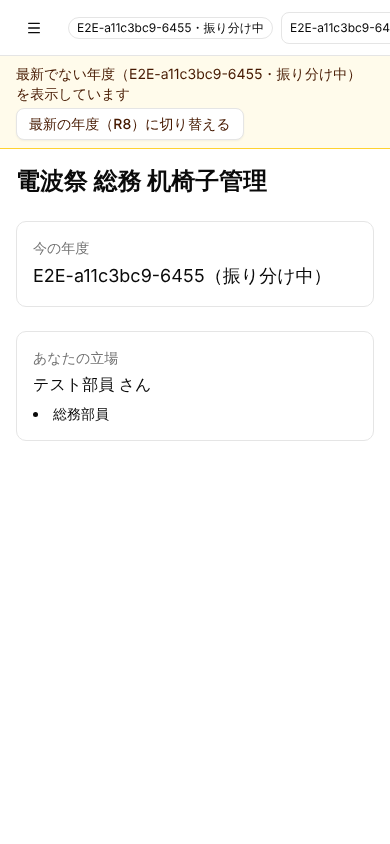
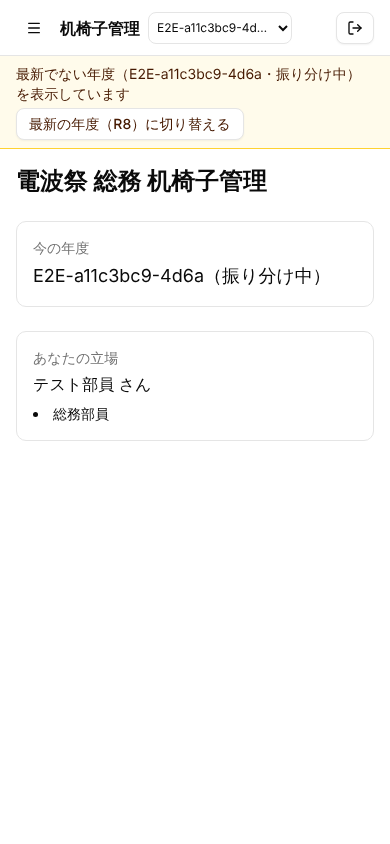
fix(T09a): keep the mobile header within 390px when there are two or more years
Hide the current-year chip below md when the year select is shown, let the
chip and the select shrink, and keep only the sign-out button from shrinking.
Add an E2E test that measures scrollWidth and the sign-out button at 390px,
check scrollWidth in the year-switched-mobile shot, and retake the shots.

Claude-Session: https://claude.ai/code/session_01WNbyY2riVdfm15kp8tp6es

diff --git a/apps/web/components/layout/app-shell.tsx b/apps/web/components/layout/app-shell.tsx
@@ -18,6 +18,7 @@ import {
 } from '@/lib/auth/membership';
 import { navItemsFor } from '@/lib/navigation';
 import { useGuardedRouter } from '@/lib/navigation/guarded-router';
+import { cn } from '@/lib/utils';
 import { AppNav } from './app-nav';
 import { NotInvited } from './not-invited';
 
@@ -83,12 +84,12 @@ function YearSelect({ membership }: { membership: Membership }) {
   const setYear = useGuardedSetYear();
   if (membership.years.length < 2 || !membership.year) return null;
   return (
-    <label className="flex items-center gap-1 text-xs">
+    <label className="flex min-w-0 items-center gap-1 text-xs">
       <span className="sr-only">年度を切り替える</span>
       <select
         data-testid="year-select"
         aria-label="年度を切り替える"
-        className="h-8 max-w-36 rounded-md border bg-background px-1 text-xs"
+        className="h-8 min-w-0 max-w-36 truncate rounded-md border bg-background px-1 text-xs"
         // 確かめてやめたときは今の年度のまま（制御された select なので元に戻る）
         value={membership.year.id}
         onChange={(e) => void setYear(e.target.value)}
@@ -109,6 +110,8 @@ function Frame({ membership, onSignOut, children }: { membership: Membership; on
   const year = membership.year;
   const items = navItemsFor(audiencesOf(membership), year?.status);
   const roles = roleSummary(membership);
+  // スマホ（md 未満）では年度の選択があれば印を隠す（選択に今の年度が出る。幅 390px でヘッダーがはみ出さないように）
+  const hasYearSelect = membership.years.length >= 2 && !!year;
 
   return (
     <div className="flex min-h-dvh flex-col">
@@ -128,7 +131,10 @@ function Frame({ membership, onSignOut, children }: { membership: Membership; on
           <span className="hidden sm:inline">電波祭 総務 </span>机椅子管理
         </span>
         {year ? (
-          <span className="shrink-0 rounded-full border px-2 py-0.5 text-xs" data-testid="current-year">
+          <span
+            className={cn('min-w-0 truncate rounded-full border px-2 py-0.5 text-xs', hasYearSelect && 'max-md:sr-only')}
+            data-testid="current-year"
+          >
             {year.label}・{YEAR_STATUS_LABELS[year.status]}
           </span>
         ) : null}
@@ -136,12 +142,12 @@ function Frame({ membership, onSignOut, children }: { membership: Membership; on
         {isRefreshing ? (
           <Loader2 aria-label="立場を読み直しています" role="status" className="size-4 shrink-0 animate-spin text-muted-foreground" />
         ) : null}
-        <div className="ml-auto flex min-w-0 items-center gap-2">
+        <div className="ml-auto flex shrink-0 items-center gap-2 md:min-w-0 md:shrink">
           <div className="hidden min-w-0 text-right text-xs leading-tight md:block">
             <div className="truncate font-medium">{membership.displayName ?? '名前未設定'}</div>
             <div className="truncate text-muted-foreground">{roles.join('・')}</div>
           </div>
-          <Button variant="outline" size="sm" onClick={onSignOut}>
+          <Button variant="outline" size="sm" className="shrink-0" onClick={onSignOut}>
             <LogOut aria-hidden />
             <span className="hidden sm:inline">ログアウト</span>
             <span className="sr-only sm:hidden">ログアウト</span>

diff --git a/e2e/foundation.spec.ts b/e2e/foundation.spec.ts
@@ -1,7 +1,7 @@
 import { expect, test, type Page } from '@playwright/test';
 import { loginAs, navLabels } from './helpers';
 import { accessToken, restGet, rpc, storageStateFor, type StoredUser } from './support/auth';
-import { createScenario } from './support/db';
+import { createScenario, sql } from './support/db';
 import { SEED_R8, SEED_USER_IDS } from './support/users';
 import { pinYear } from './support/year';
 
@@ -146,6 +146,30 @@ test.describe('T09a 年度の切り替え', () => {
       await page.getByTestId('not-latest-year-banner').getByRole('button', { name: '最新の年度（R8）に切り替える' }).click();
       await expect(page.getByTestId('current-year')).toHaveText('R8・申請受付中');
       await expect(page.getByTestId('not-latest-year-banner')).toHaveCount(0);
+    } finally {
+      await s.cleanup();
+    }
+  });
+
+  test('T09a スマホ（幅 390px）：年度が2つ以上で年度名が長くても、ヘッダーがはみ出さず、ログアウトのボタンが画面の中にある', async ({ page }) => {
+    const s = await createScenario({ status: 'allocating', roles: { staff: true } });
+    try {
+      // 年度名は 50 字まで入れられる（年度名の上限いっぱいにする）
+      const label = `${s.label}-${'第60回電波祭の年度名'.repeat(5)}`.slice(0, 50);
+      await sql('update public.years set label = $2 where id = $1', [s.yearId, label]);
+      await page.setViewportSize({ width: 390, height: 844 });
+      await page.goto('/');
+      const expectFits = async () => {
+        expect(await page.evaluate<number>('document.documentElement.scrollWidth')).toBeLessThanOrEqual(390);
+        const box = await page.getByRole('button', { name: 'ログアウト' }).boundingBox();
+        expect(box).not.toBeNull();
+        expect(box!.x + box!.width).toBeLessThanOrEqual(390);
+      };
+      await expect(page.getByTestId('current-year')).toHaveText('R8・申請受付中');
+      await expectFits();
+      await page.getByTestId('year-select').selectOption(s.yearId);
+      await expect(page.getByTestId('current-year')).toHaveText(`${label}・振り分け中`);
+      await expectFits();
     } finally {
       await s.cleanup();
     }

diff --git a/e2e/shots/T09a.shots.ts b/e2e/shots/T09a.shots.ts
@@ -66,6 +66,8 @@ test.describe('T09a 部員', () => {
       await page.setViewportSize(MOBILE);
       await page.reload();
       await expect(page.getByTestId('current-year')).toHaveText(`${s.label}・振り分け中`);
+      // 年度が2つあってもヘッダーがはみ出さない（ページが横にスクロールしない）
+      expect(await page.evaluate<number>('document.documentElement.scrollWidth')).toBeLessThanOrEqual(MOBILE.width);
       await shoot(page, 'T09a', 'year-switched-mobile');
     } finally {
       await s.cleanup();
